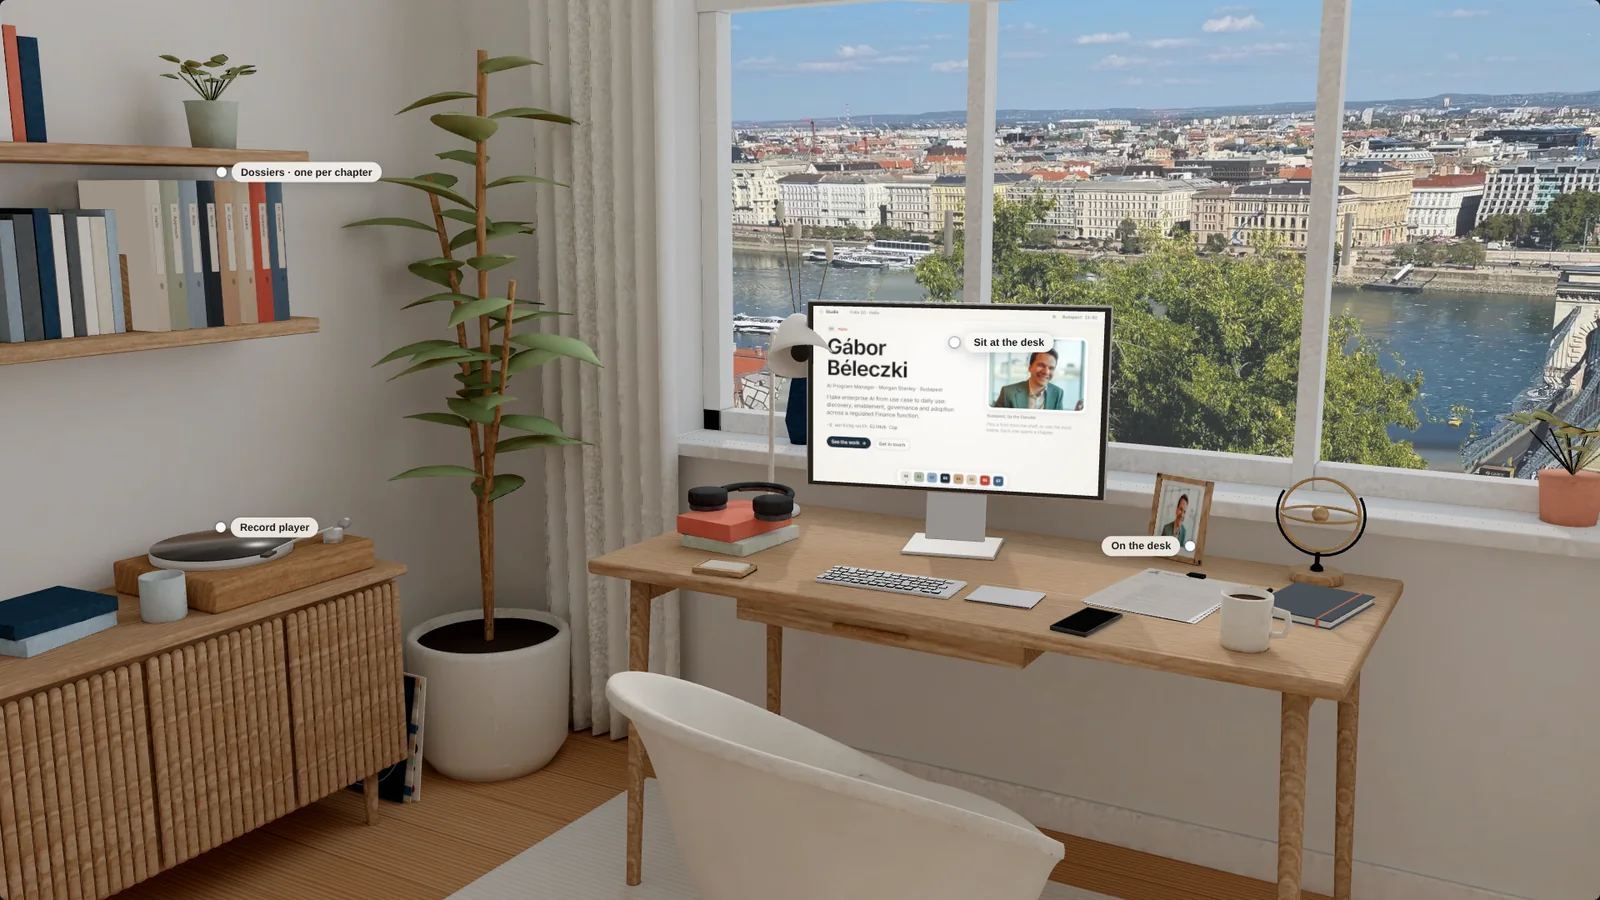
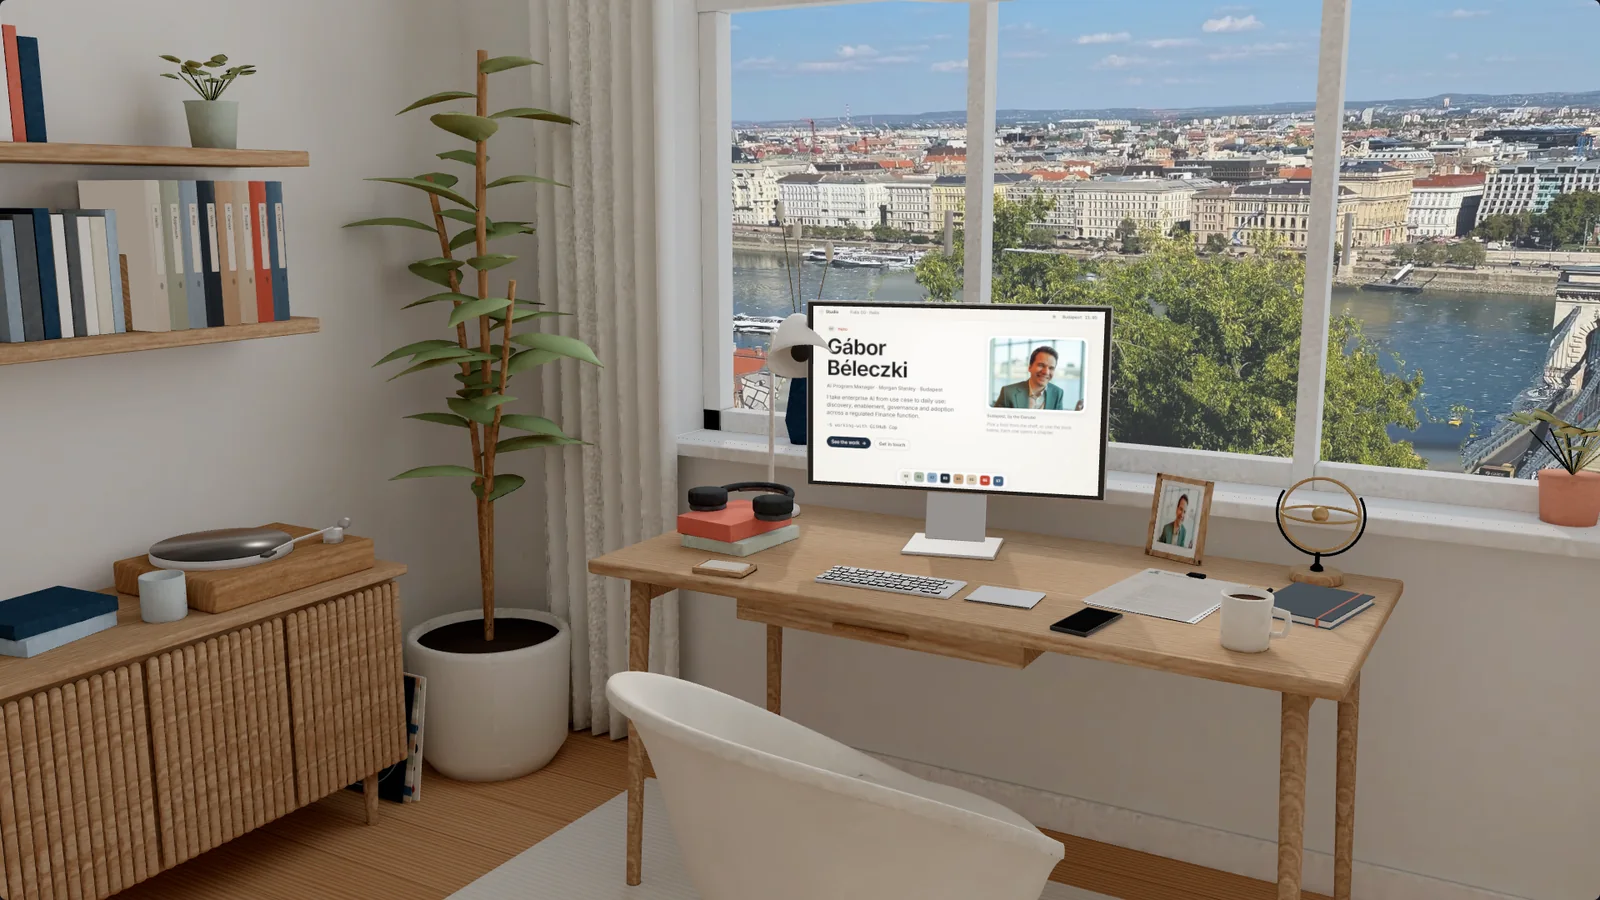
Posters without the hotspot dots; captures hide them
The poster, social card and Cycles comparison captures now hide the
hotspot layer along with the HUD. README describes the new QA coverage.

Claude-Session: https://claude.ai/code/session_01Uvi1JFjGjidcaNThuio9s6

diff --git a/README.md b/README.md
@@ -76,7 +76,7 @@ node scripts/qa/video.mjs          # re-record public/media/studio-loop.mp4
 node scripts/qa/window.mjs         # the window up close: evening/day, leaning left/right, a few seconds apart
 ```
 
-Headless Chromium (software WebGL) takes screenshots of every view and chapter, measures load and frame times, compares the WebGL render with the Cycles reference from the same camera, and runs hostile checks: no WebGL, a missing model, a lost graphics context, reduced motion, keyboard-only use and rapid input. Each must end somewhere sensible, usually the page. It also plays the role game with the keyboard, renders the soundtrack offline to check it neither clips nor goes silent, and checks that the page's seven case figures are animated.
+Headless Chromium (software WebGL) takes screenshots of every view, chapter, dossier and desk object, measures load and frame times, compares the WebGL render with the Cycles reference from the same camera, and runs hostile checks: no WebGL, software-only WebGL, a missing model, a lost graphics context, reduced motion, keyboard-only use and rapid input. Each must end somewhere sensible, usually the original portfolio at `/page/`. It also opens a dossier and turns its pages both ways, picks up every desk object, counts the hotspot dots, plays the role game with the keyboard, renders the soundtrack offline to check it neither clips nor goes silent, and checks that the static page's seven case figures are animated.
 
 ## Deploy
 
